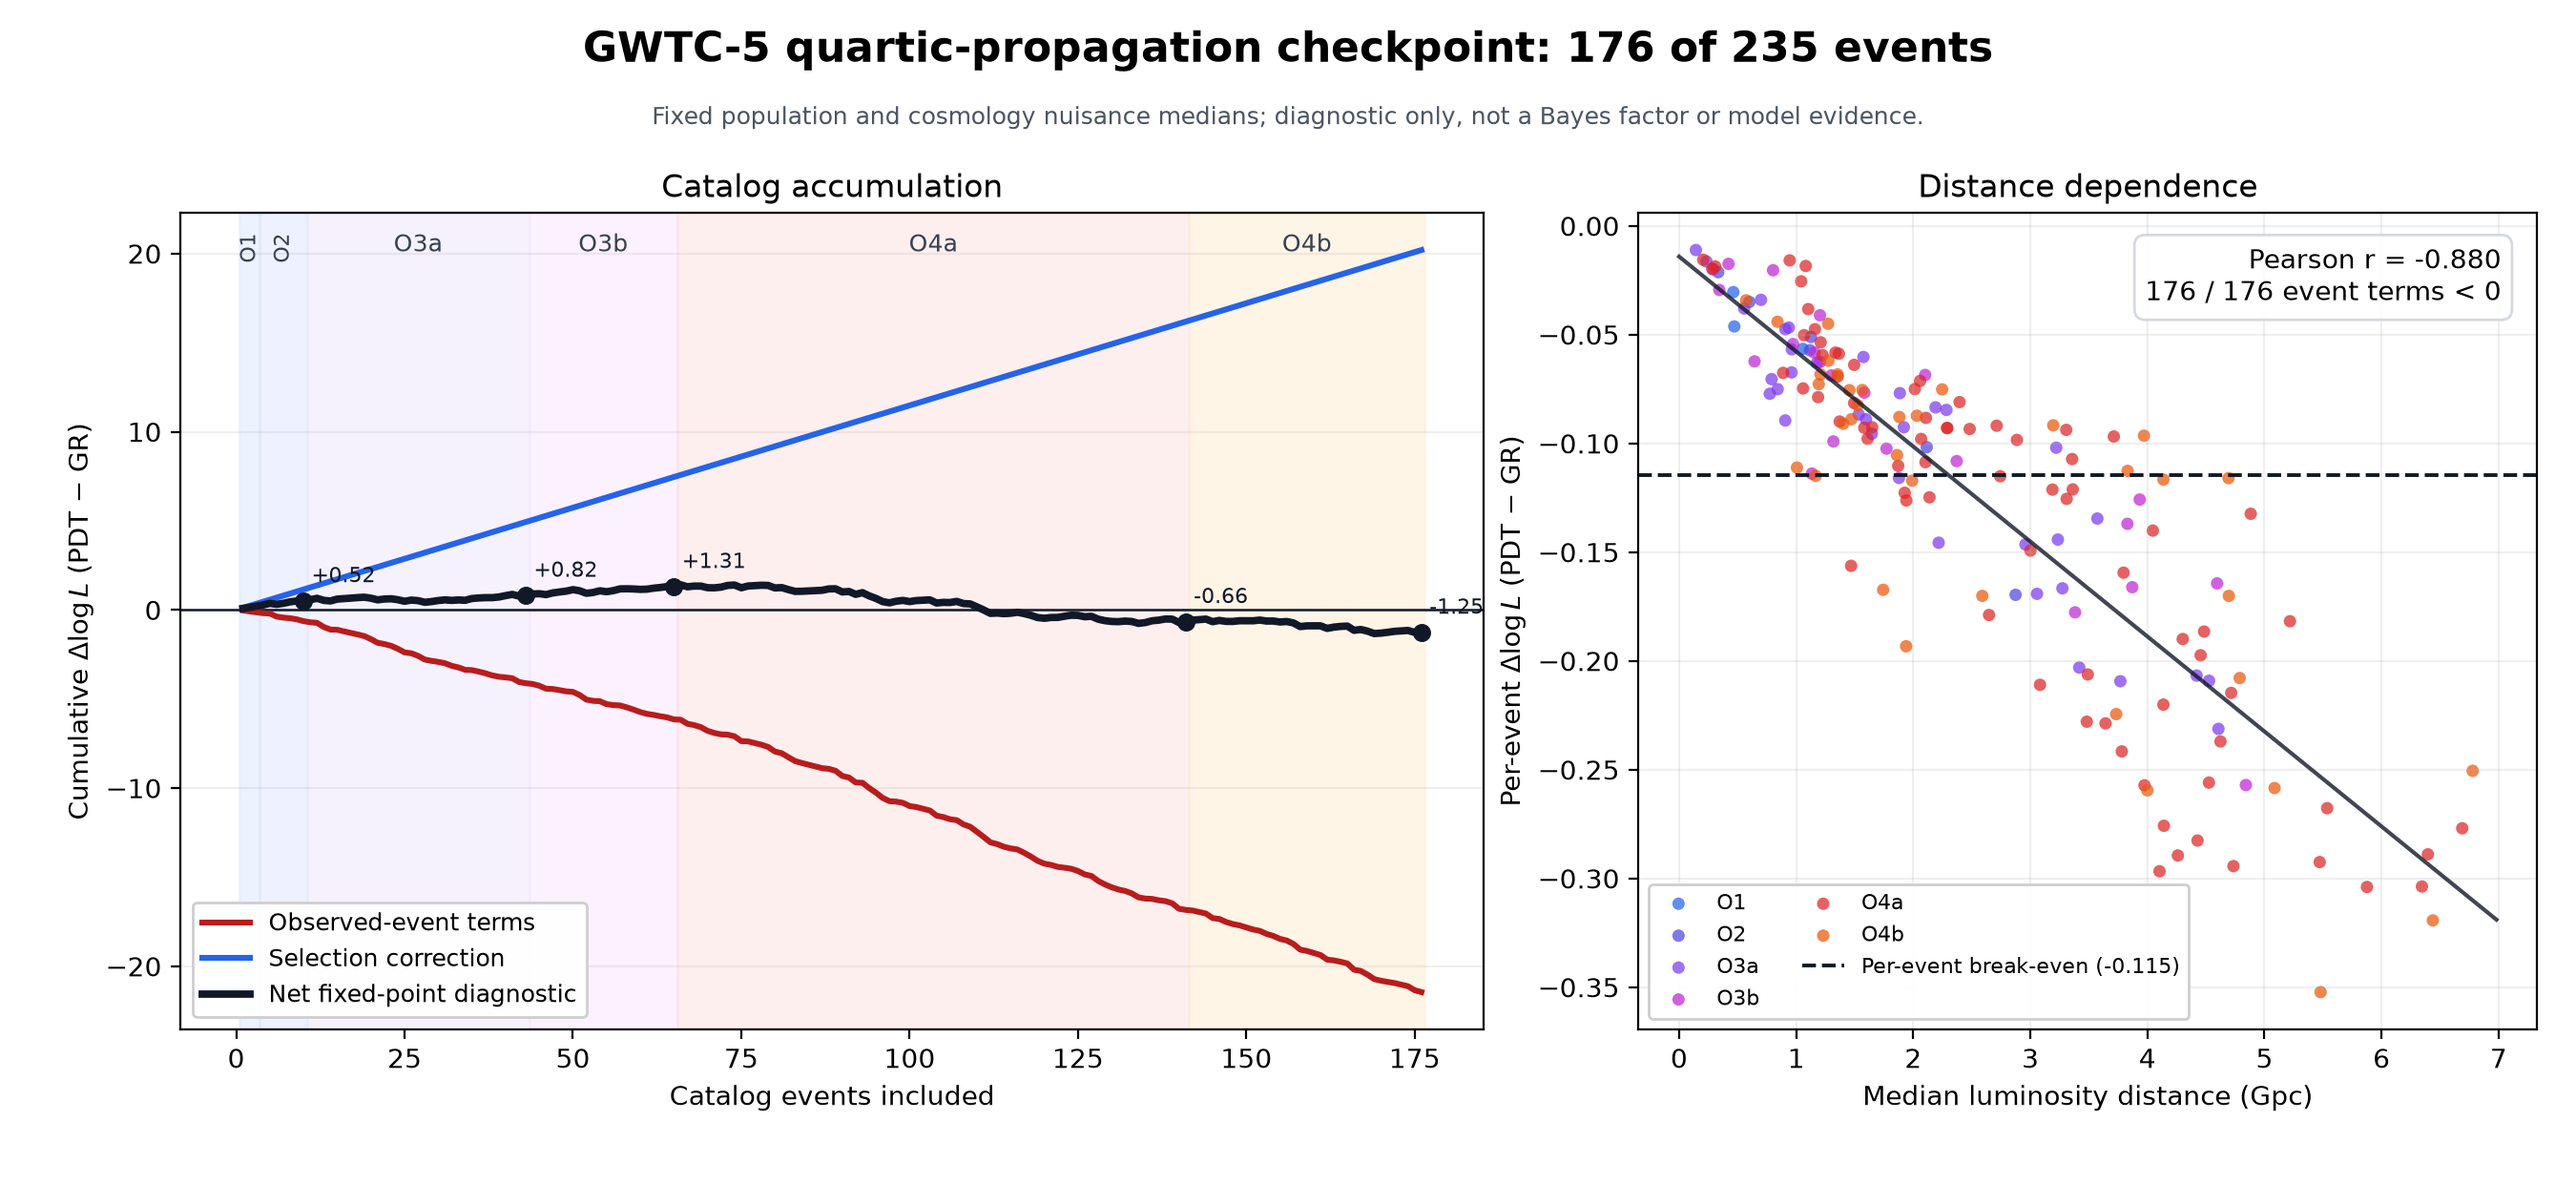
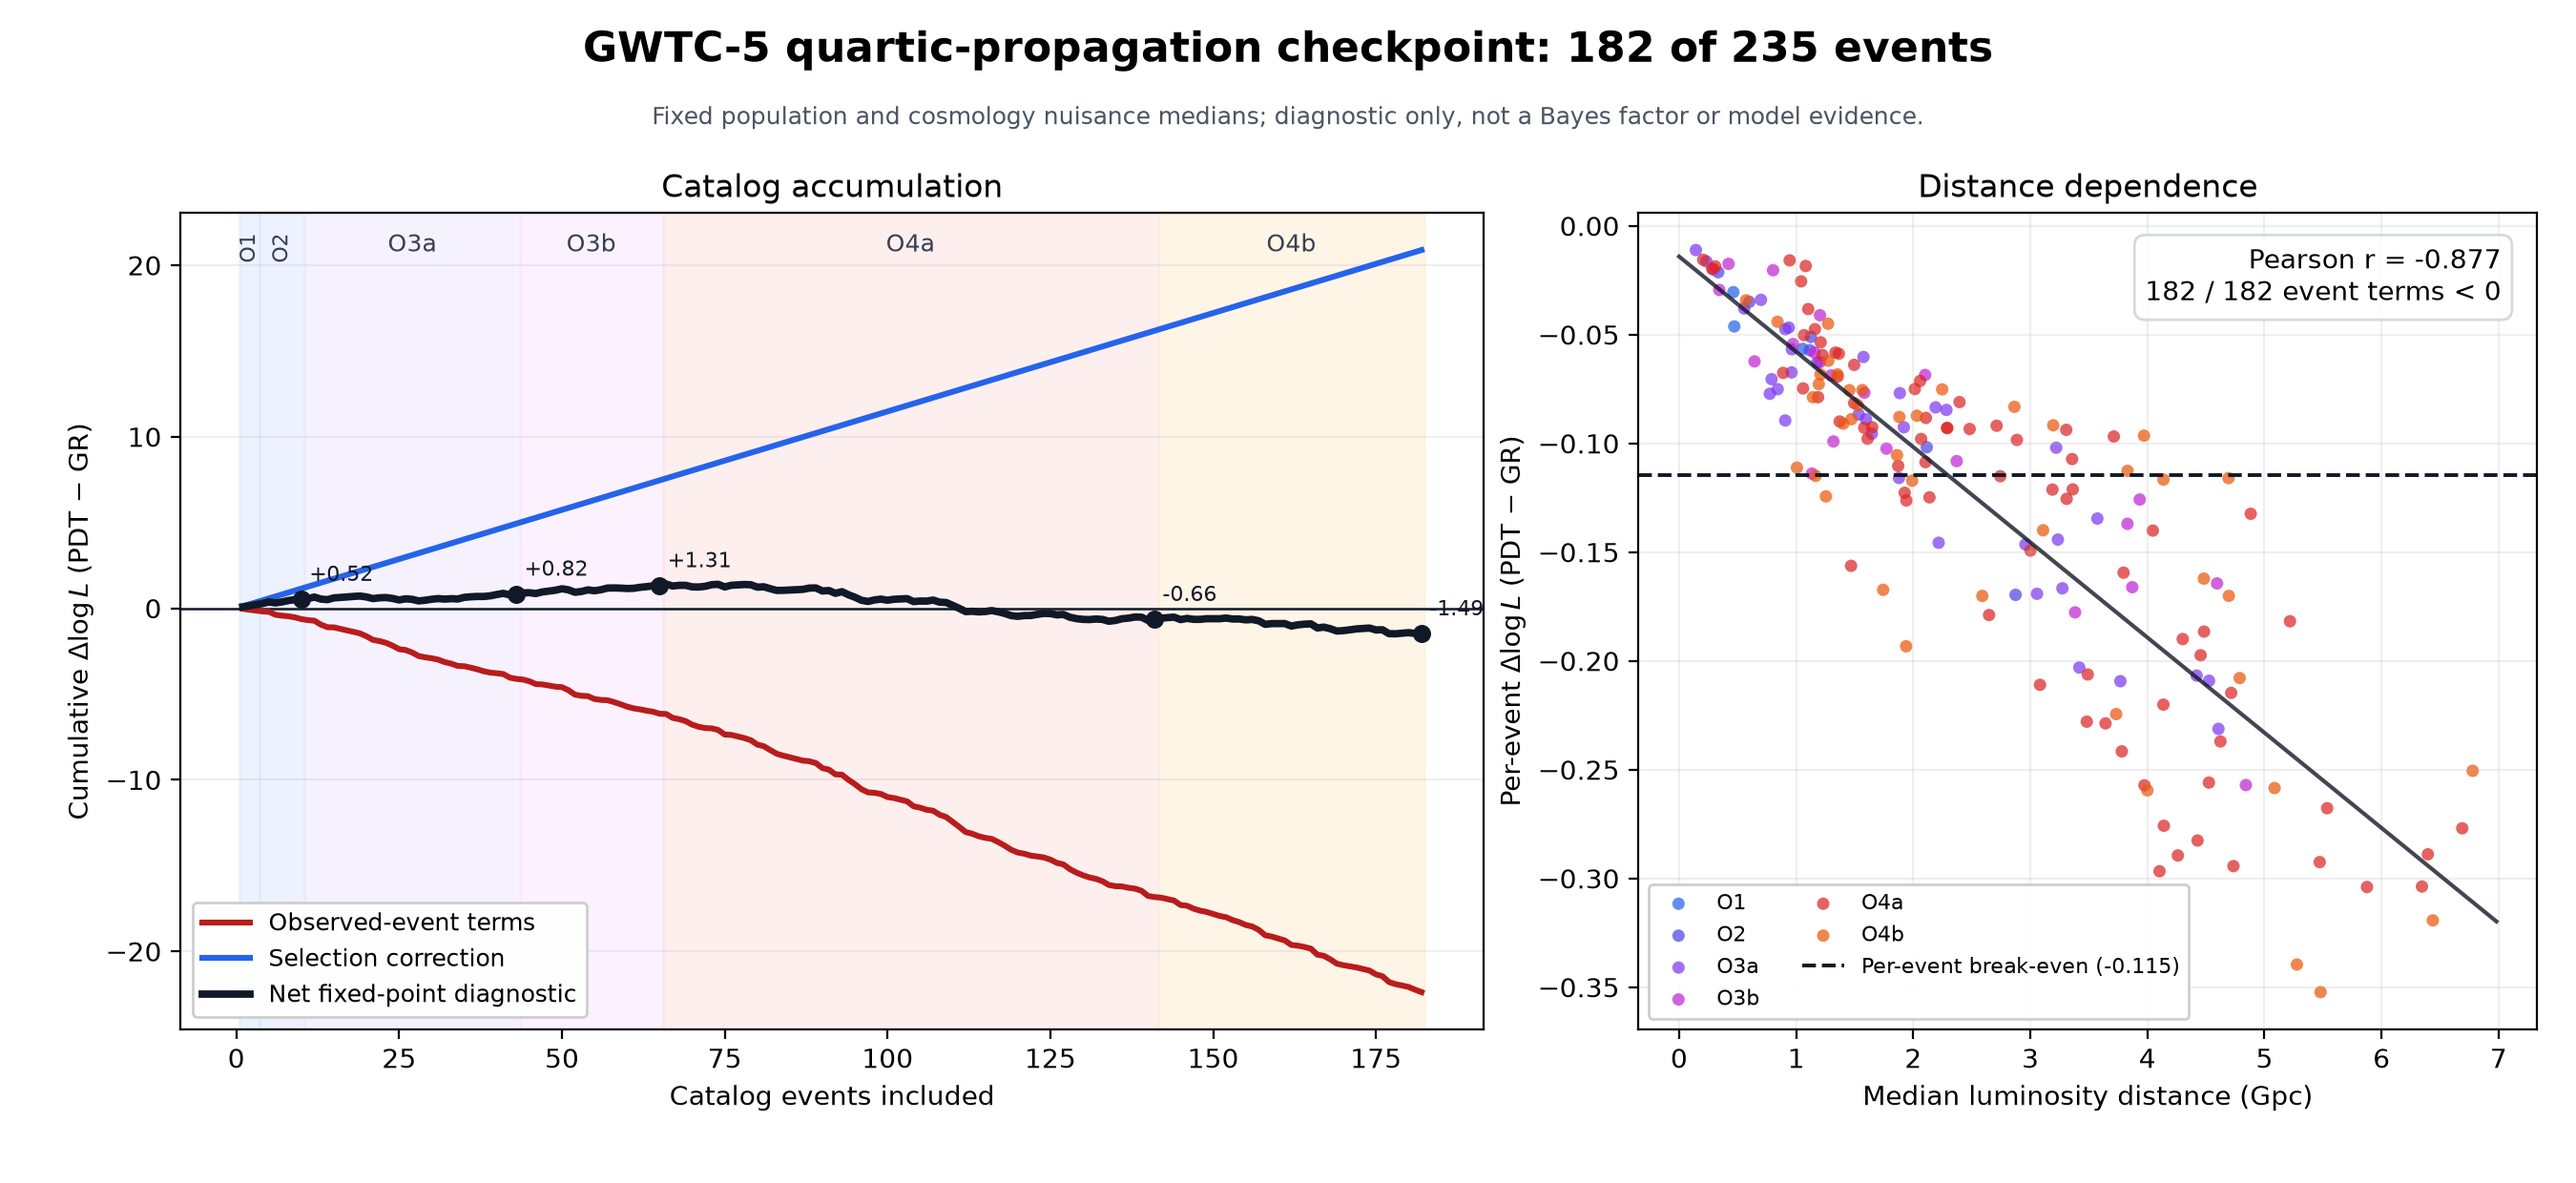
Advance GWTC-5 checkpoint to 182 events

diff --git a/plot_gwtc5_checkpoint.py b/plot_gwtc5_checkpoint.py
@@ -36,7 +36,10 @@ def main():
   if not marks or k-marks[-1] >= 15:
    marks.append(k)
  if n not in marks:
-  marks.append(n)
+  if marks and n-marks[-1] < 15:
+   marks[-1]=n
+  else:
+   marks.append(n)
  for k in marks:
   ax.scatter(k,ct[k-1],s=34,color='#111827',zorder=5)
   ax.annotate(f'{ct[k-1]:+.2f}',(k,ct[k-1]),xytext=(3,7),textcoords='offset points',fontsize=8,color='#111827')

diff --git a/EXACT_GWTC5_RERUN.md b/EXACT_GWTC5_RERUN.md
@@ -166,11 +166,10 @@ formats. The checksum, waveform group, sample count, method, density range,
 and software versions for these checks are recorded in
 `gwtc5_pe_prior_audit.json`.
 
-The evaluator has now processed 176 events through complete O4a and the first
-35 of 94 O4b events, totaling 11,930,628 posterior samples; every reconstructed
+The evaluator has now processed 182 events through complete O4a and the first
+41 of 94 O4b events, totaling 12,038,335 posterior samples; every reconstructed
 density was finite and positive. O4a also exposed one released prior serialized
-with an
-explicit Astropy `LambdaCDM(H0=67.9, Om0=0.3065, Ode0=0.6935)` object rather
+with an explicit Astropy `LambdaCDM(H0=67.9, Om0=0.3065, Ode0=0.6935)` object rather
 than the usual `Planck15_LAL` name. The evaluator parses only the literal
 parameters of that trusted expression and reconstructs the Astropy cosmology
 before creating Bilby's `UniformSourceFrame`. A regression check reproduced an
@@ -261,8 +260,8 @@ released likelihood's effective-sample and variance checks. The exact inputs,
 versions, settings, and outputs are recorded in
 `gwtc5_likelihood_smoke_audit.json`.
 
-The expanded checkpoint now contains 176 of the 235 released events: every
-event through complete O4a plus the first 35 of 94 O4b events. The
+The expanded checkpoint now contains 182 of the 235 released events: every
+event through complete O4a plus the first 41 of 94 O4b events. The
 fixed-nuisance history is:
 
 | Events | Complete scope | `log L_PDT - log L_GR` |
@@ -272,32 +271,34 @@ fixed-nuisance history is:
 | 65 | O1--O3b | `+1.3120663` |
 | 141 | O1--O4a | `-0.6569939` |
 | 176 | O1--O4a + 35 O4b | `-1.2540217` |
+| 182 | O1--O4a + 41 O4b | `-1.4935506` |
 
-O4a changes the sign, and the first 35 O4b events extend that movement. At
+O4a changes the sign, and the first 41 O4b events extend that movement. At
 8,192 samples per event and fixed nuisance medians, the current diagnostic is
 
 \[
-\log L_{\rm PDT}-\log L_{\rm GR}=-1.2540216734.
+\log L_{\rm PDT}-\log L_{\rm GR}=-1.4935506041.
 \]
 
 This value was stable under posterior subsampling: five independent
-4,096-sample draws gave a mean of `-1.2567919` with sample standard deviation
-`0.0118180` and range `-1.2771201` to `-1.2464430`. The 8,192-sample value lies
+4,096-sample draws gave a mean of `-1.4992395` with sample standard deviation
+`0.0114427` and range `-1.5192816` to `-1.4914929`. The 8,192-sample value lies
 inside that range.
 
-The corrected likelihood attribution is more informative than its sign. The
-observed-event log-sum-weight terms total `-21.4505511469`, favoring GR at this
-fixed nuisance point, while the model-dependent selection term is
-`+20.1965294735`, favoring PDT. Their sum reconstructs `-1.2540216734` to
-numerical precision. All 176 individual event terms are negative, and their
-correlation with median luminosity distance is `-0.8805`.
+The observed-event log-sum-weight terms total `-22.3785981278`, favoring GR at
+this fixed nuisance point, while the model-dependent selection term is
+`+20.8850475237`, favoring PDT. Their sum reconstructs `-1.4935506041` to
+numerical precision. All 182 individual event terms are negative.
 
-The scale-free selection term contributes the same `+0.1147530` per event at
-this fixed nuisance point. The 76 O4a events contribute `-1.9690603` net. The
-first 35 O4b events have a median distance of 1,939 Mpc and mean event penalty
-of `-0.1318109`; their event sum is `-4.6133830` against a selection share of
-`+4.0163553`, for a further net change of `-0.5970277`. The remaining 59 O4b
-events and full nuisance marginalization can change the result again.
+The scale-free selection term contributes the same `+0.1147530` per event.
+The 76 O4a events contribute `-1.9690603` net. The first 41 O4b events have
+mean event penalty `-0.1351568`; their event sum is `-5.5414300` against a
+selection share of `+4.7048733`, for a further net change of `-0.8365567`.
+For the full 235-event fixed-point diagnostic to return to zero, the remaining
+53 observed-event terms must average better than `-0.0865728`. That threshold
+is an exact consequence of the current decomposition; projecting the current
+partial-O4b mean onto the remainder would give about `-2.5751`, but that
+projection is descriptive rather than model evidence.
 
 This attribution corrects the 19-event component split recorded in repository
 commit `1fd4f6e`. ICAROGW estimates the paired-mass normalization with Monte
@@ -305,21 +306,21 @@ Carlo draws on each population update. Different draws shift equal and opposite
 constants between the event and selection components, while canceling exactly
 from the scale-free total likelihood. The script now gives the common mass
 model the identical normalization draw under GR and PDT. Repeating the
-176-event calculation with two different common draws changed the event sum
-and selection term by about `7e-15`, the total by about `1e-13`, and every
-per-event difference only at numerical roundoff, while the draw-dependent
-normalization itself changed from `0.14710` to `0.14558`. The earlier
-`+0.7123101` total remains valid; only its decomposition is superseded. The
-corrected per-event decomposition, checkpoint history, checksums, settings,
-and invariance check are recorded in `gwtc5_likelihood_checkpoint_audit.json`.
+182-event calculation with two different common draws changed the event sum
+and selection term at numerical roundoff and the total by about `1e-13`, while
+the draw-dependent normalization itself changed from `0.14710` to `0.14558`.
+The earlier `+0.7123101` total remains valid; only its decomposition is
+superseded. The corrected per-event decomposition, checkpoint history,
+checksums, settings, and invariance check are recorded in
+`gwtc5_likelihood_checkpoint_audit.json`.
 
 This remains a diagnostic, not model evidence. It demonstrates why both sides
 of the hierarchical likelihood are indispensable: reweighting the observed
 events without recomputing detectability would reverse the interpretation of
 this checkpoint.
 
-Reproduce the diagnostic after preparing its two event files and cumulative
-injection file:
+Reproduce the two-event integration smoke test after preparing its event files
+and cumulative injection file:
 
 ```bash
 python3.12 -m venv gwtc5-icarogw-env
@@ -340,10 +341,10 @@ integrity, local storage, both importance-sampling priors, a fixed selection
 rule, and basic ICAROGW integration. Two items still have to be closed before
 an evidence number is defensible:
 
-1. **Catalog-wide prior validation.** The evaluator has passed one real file
-   from each of O1, O2, O3a, O3b, O4a, and O4b, including every prior family
-   presently identified in the lock. It must still run successfully across all
-   235 checksum-locked events to detect event-specific metadata anomalies. The
+1. **Catalog-wide prior validation.** The evaluator has passed all 182 prepared
+   files from O1 through partial O4b, including every prior family presently
+   identified in the lock. It must still run successfully across the remaining
+   53 checksum-locked events to detect event-specific metadata anomalies. The
    full joint `log_prior` column is retained for diagnostics but is not
    substituted for the required marginal density.
 2. **Pipeline validation and compute.** Before evaluating PDT, the reconstructed

diff --git a/README.md b/README.md
@@ -193,9 +193,10 @@ merely described. The checksum lock identifies all 235 official event files
 compacts one HDF5 file at a time. A second pinned script reconstructs the
 marginal PE-prior density and has passed a checksum-locked real event from
 each of O1, O2, O3a, O3b, O4a, and O4b (337,982 posterior samples total). The
-same evaluator has now processed 176 events through complete O4a and the first
-35 of 94 O4b events, covering 11,930,628 posterior samples with finite positive
-densities throughout. The machine-readable coverage record is `gwtc5_pe_prior_audit.json`. The official
+same evaluator has now processed 182 events through complete O4a and the first
+41 of 94 O4b events, covering 12,038,335 posterior samples with finite positive
+densities throughout. The machine-readable coverage record is
+`gwtc5_pe_prior_audit.json`. The official
 1.142 GB cumulative injection file has also been checksum verified and
 compacted with the selection fixed at semianalytic SNR above 10 or
 real-search FAR below 0.25/year: 1,478,693 injections pass, with no overlap
@@ -210,15 +211,15 @@ formulas, commands, machine-readable audit, and real-file integration tests
 are recorded in
 [EXACT_GWTC5_RERUN.md](EXACT_GWTC5_RERUN.md).
 
-The diagnostic has since been expanded to 176 events: every event through
-complete O4a plus the first 35 of 94 O4b events. Its fixed-nuisance difference is now
-`-1.2540`: observed-event terms contribute `-21.4506`, while the required
-selection correction contributes `+20.1965`. All 176 individual event terms
-lean toward GR at this fixed point. The 35-event O4b block contributes
-`-0.5970` net, extending the O4a sign reversal. The partial-catalog result
-therefore demonstrates the importance of both recomputing detectability and
-completing the catalog; the remaining 59 O4b events and nuisance
-marginalization may change the result again.
+The diagnostic has since been expanded to 182 events: every event through
+complete O4a plus the first 41 of 94 O4b events. Its fixed-nuisance difference
+is now `-1.4936`: observed-event terms contribute `-22.3786`, while the required
+selection correction contributes `+20.8850`. All 182 individual event terms
+lean toward GR at this fixed point. The 41-event O4b block contributes
+`-0.8366` net, extending the O4a sign reversal. The remaining 53 O4b events
+would have to average better than `-0.0866` in their observed-event terms to
+return this fixed-point diagnostic to zero. Full nuisance marginalization can
+still change the result.
 
 ![GWTC-5 fixed-nuisance cumulative diagnostic and distance dependence](gwtc5_fixed_point_checkpoint.png)
 
@@ -228,8 +229,8 @@ The total scale-free likelihood cancels that common factor, but a component
 attribution requires the same draw under both hypotheses. The script now
 enforces that condition, and a second common draw reproduced every corrected
 component to about `1e-13` or better. The earlier 19-event total was unaffected.
-Five independent posterior subsamples gave `-1.2771` to `-1.2464`; the detailed
-correction and 176-event checkpoint are recorded in
+Five independent posterior subsamples gave `-1.5193` to `-1.4915`; the detailed
+correction and 182-event checkpoint are recorded in
 `gwtc5_likelihood_checkpoint_audit.json`.
 
 The full inference runner is now included as `gwtc5_full_inference.py`. It
